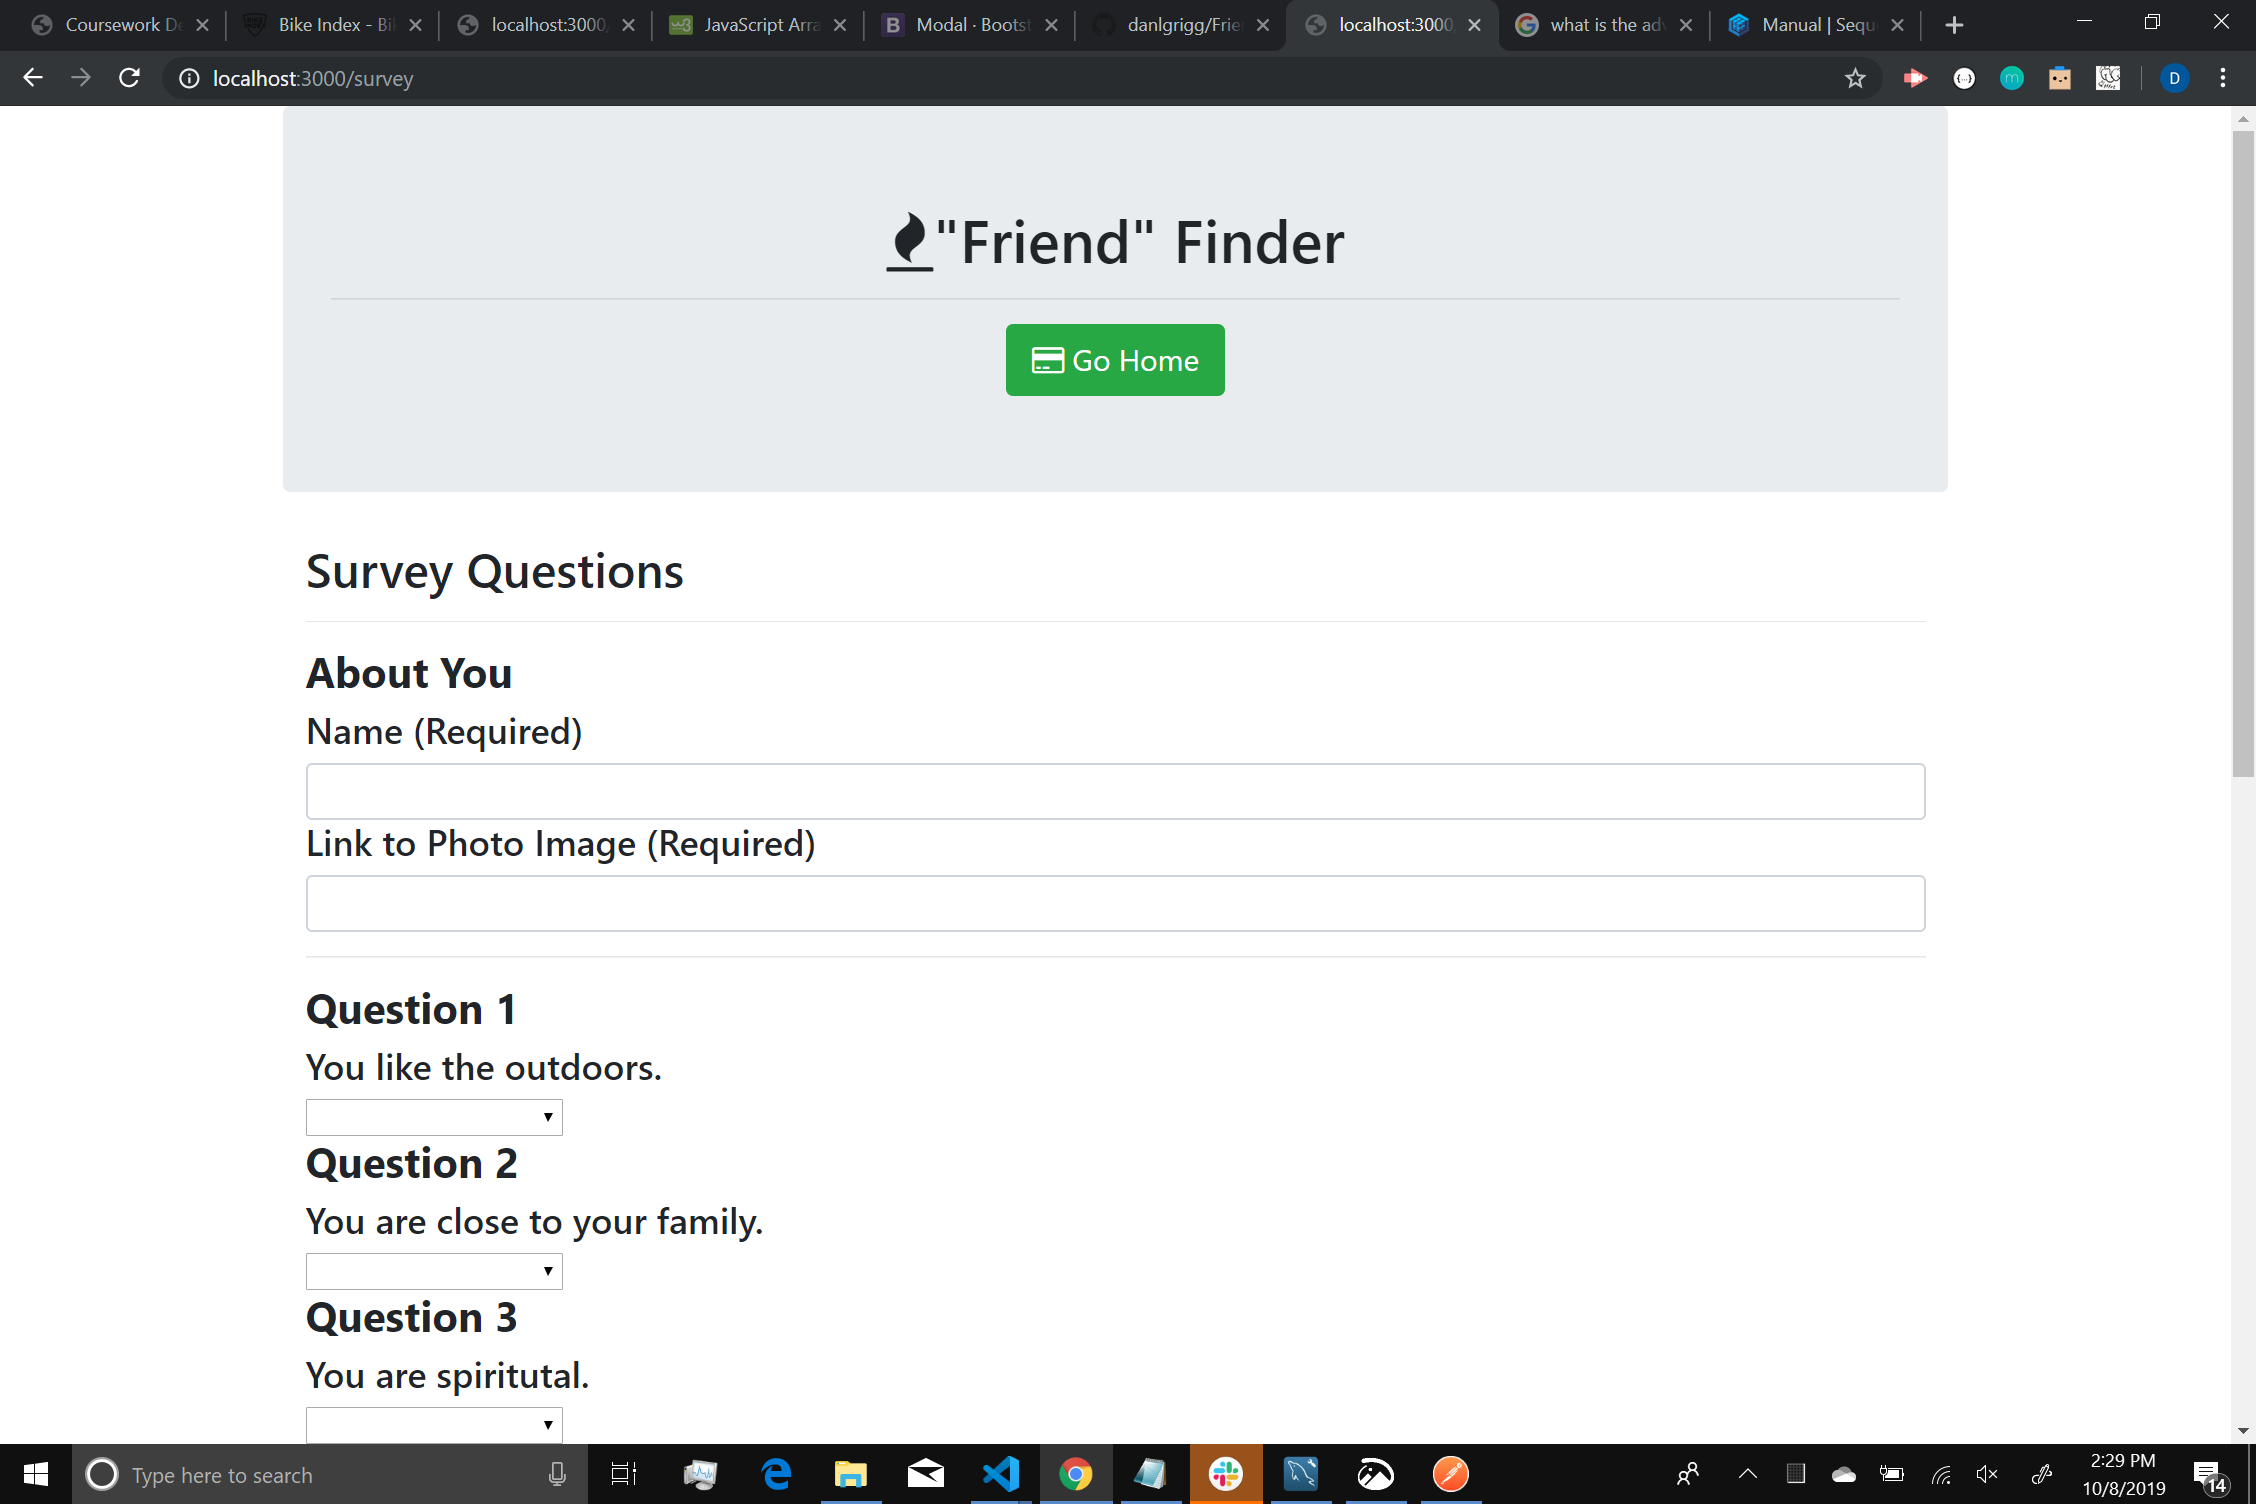
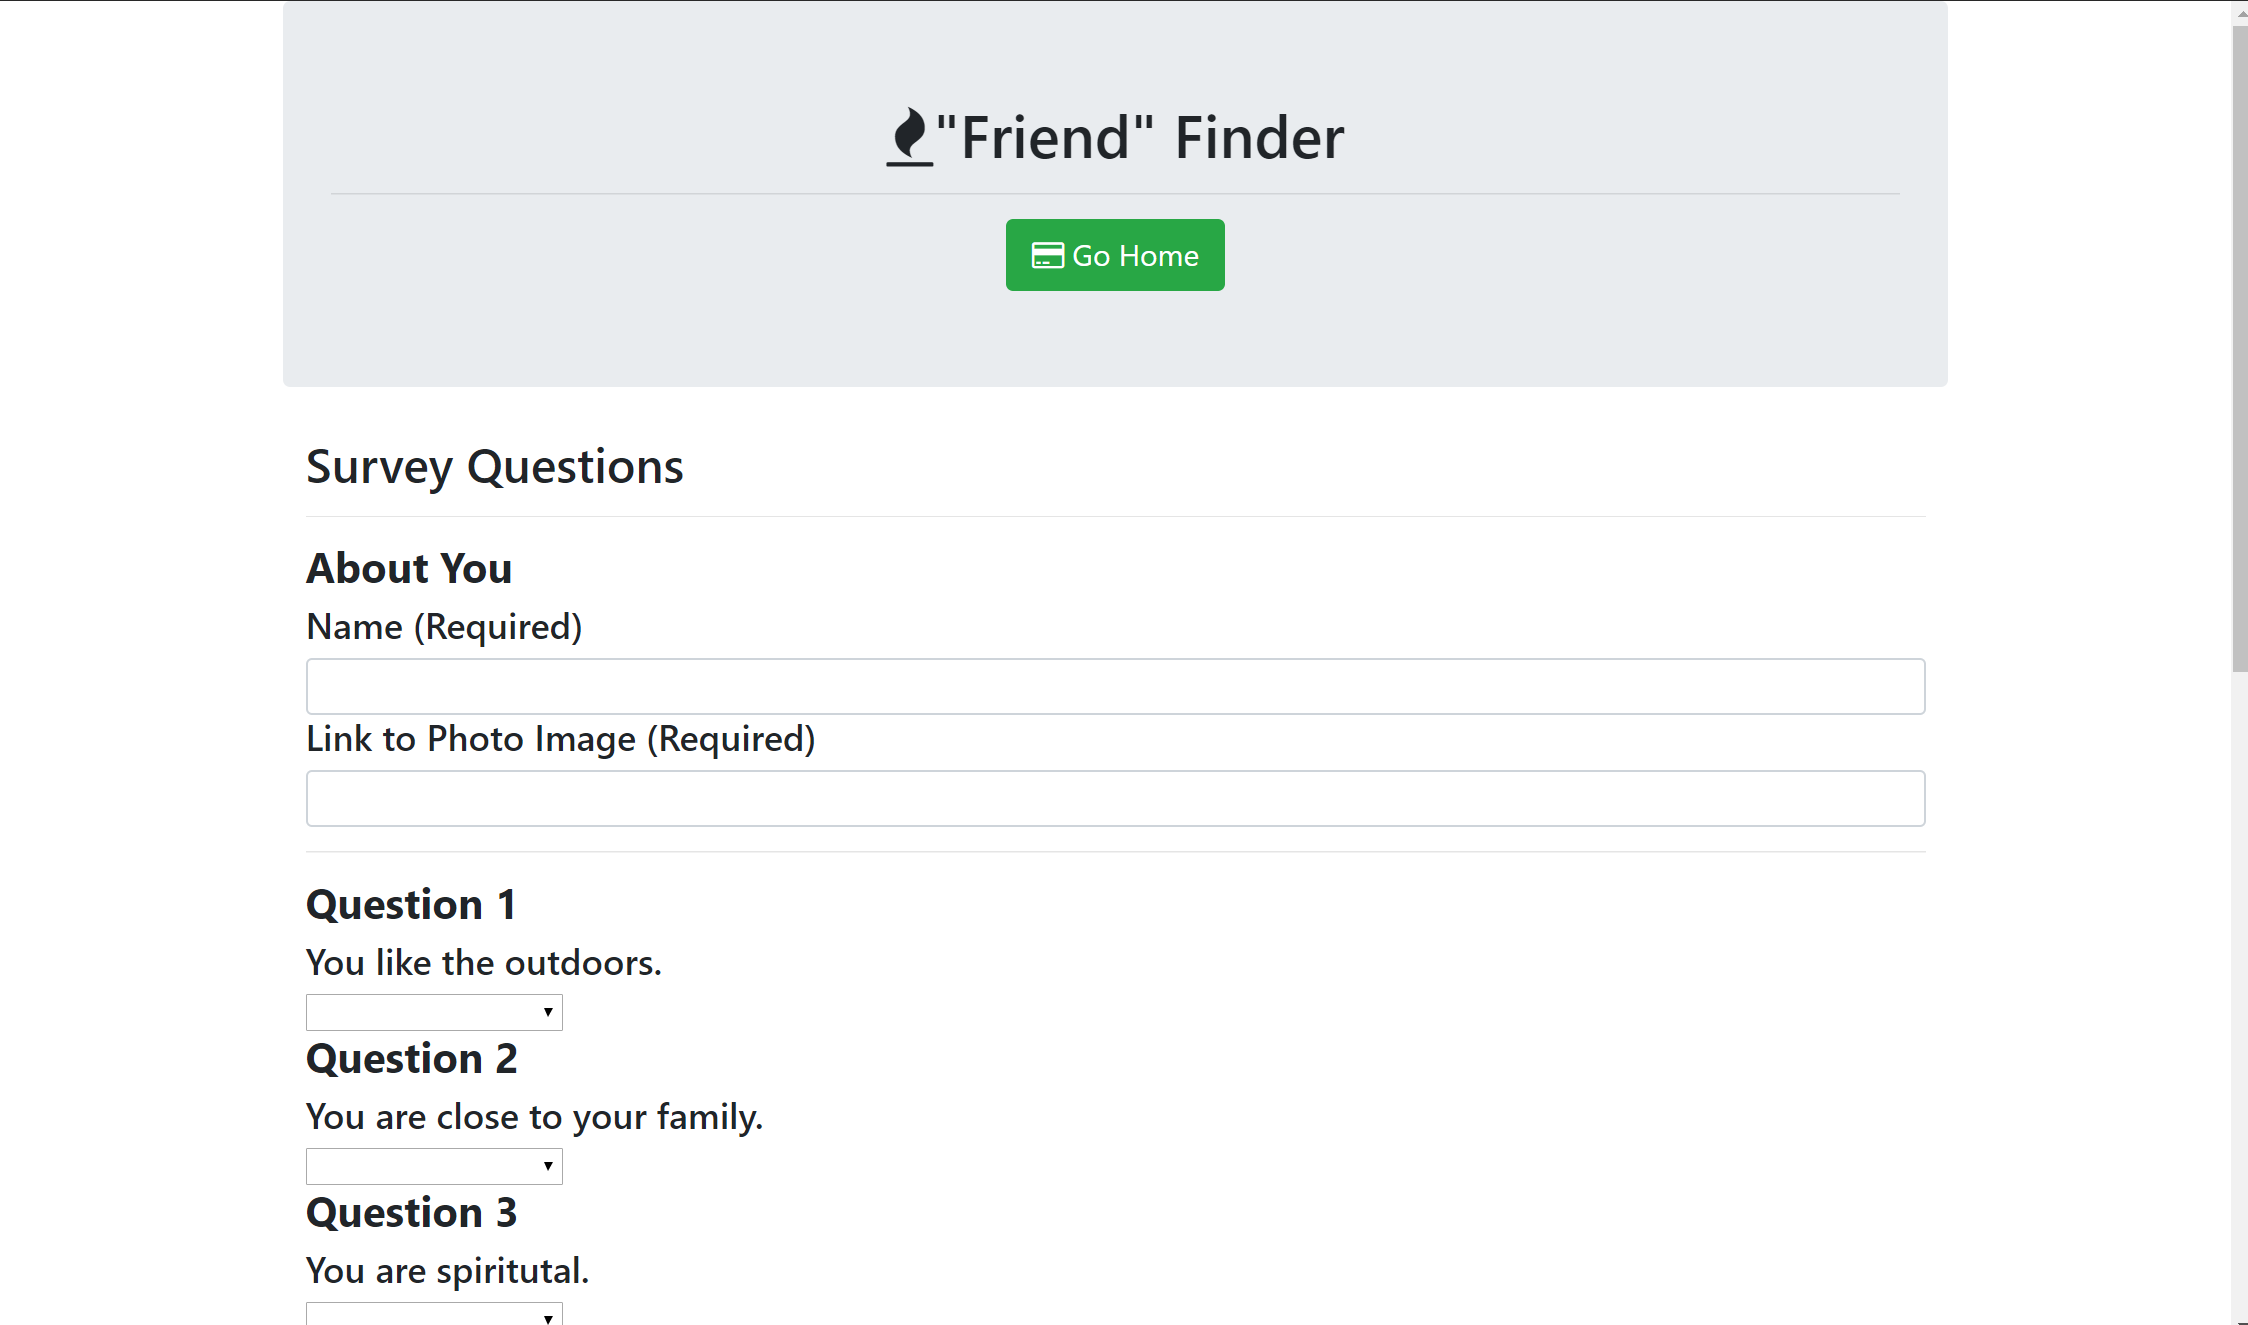
Updated portfolio.  Added new background, googlefont, coloring.

Changed region(s): [[0.0, 0.0, 1.0, 0.526], [0.0, 0.6498, 1.0, 1.0], [0.1246, 0.3404, 0.3737, 0.5879]]

diff --git a/portfolio.html b/portfolio.html
@@ -4,18 +4,20 @@
     <meta charset="UTF-8" />
     <meta name="viewport" content="width=device-width, initial-scale=1.0" />
     <meta http-equiv="X-UA-Compatible" content="ie=edge" />
-    <title>Document</title>
+    <title>Dan L. Grigg Portfolio</title>
+    <link href="https://fonts.googleapis.com/css?family=Ubuntu&display=swap" rel="stylesheet">
     <link
       rel="stylesheet"
       href="https://stackpath.bootstrapcdn.com/bootstrap/4.3.1/css/bootstrap.min.css"
       integrity="sha384-ggOyR0iXCbMQv3Xipma34MD+dH/1fQ784/j6cY/iJTQUOhcWr7x9JvoRxT2MZw1T"
-      crossorigin="anonymous"/>
-    <link rel="stylesheet" type="text/css" href="style.css"/>
+      crossorigin="anonymous"
+    />
+    <link rel="stylesheet" type="text/css" href="style.css" />
   </head>
 
   <body>
     <!--navbar-->
-    <nav class="navbar navbar-expand-lg navbar-light bg-light">
+    <nav class="navbar navbar-expand-md navbar-dark fixed-top bg-dark">
       <a class="navbar-brand text-white">Dan L. Grigg</a>
       <button
         class="navbar-toggler"
@@ -44,51 +46,103 @@
 
     <!--Gallery-->
     <div class="container width: 75%">
-    <div class="card-group">
-      <div class="card card-portfolio">
-        <img src="assets/images/gamechomp.png" class="card-img-top" alt="Gamechomp Screenshot">
-        <div class="card-body">
-          <a href="https://maxdavin.github.io/Project-One/">//GameChomp</a>        
-        </div>
-      </div>
-      <div class="card card-portfolio">
-        <img src="assets/images/stevenuniversegem.png" class="card-img-top" alt="Steven Universe Gem Collector Screenshot">
-        <div class="card-body">
-          <a href="https://danlgrigg.github.io/Steven-Universe-Gem-Collector/.">Steven Universe Gem Collector</a>
+      <h2>Portfolio</h2>
+      <div class="row">
+        <div class="card-group">
+          <div class="card card-portfolio">
+            <img
+              src="assets/images/gamechomp.png"
+              class="card-img-top"
+              alt="Gamechomp Screenshot"
+            />
+            <div class="card-body">
+              <a href="https://maxdavin.github.io/Project-One/">//GameChomp</a>
+            </div>
           </div>
-      </div>
-      <div class="card card-portfolio">
-        <img src="assets/images/star-wars-gif-party.png" class="card-img-top" alt="Star Wars GIF Party Screenshot">
-        <div class="card-body">
-          <a href="https://danlgrigg.github.io/Star-Wars-GIF-Party/">Star Wars GIF Party </a>
+          <div class="card card-portfolio">
+            <img
+              src="assets/images/little-library-scrnsht2.png"
+              class="card-img-top"
+              alt="Little Free Library Community App Screenshot"
+            />
+            <div class="card-body">
+              <a href="https://powerful-gorge-87557.herokuapp.com"
+                >The Little Free Library Community App</a
+              >
+            </div>
+          </div>
+          <div class="card card-portfolio">
+            <img
+              src="assets/images/stevenuniversegem.png"
+              class="card-img-top"
+              alt="Steven Universe Gem Collector Screenshot"
+            />
+            <div class="card-body">
+              <a
+                href="https://danlgrigg.github.io/Steven-Universe-Gem-Collector/."
+                >Steven Universe Gem Collector</a
+              >
+            </div>
+          </div>
         </div>
       </div>
-      <div class="card card-portfolio">
-        <img src="assets/images/liri-screenshot.png" class="card-img-top" alt="LIRI App Screenshot">
-        <div class="card-body">
-          <a href="https://github.com/danlgrigg/liri-node-app/">LIRI Node App </a>
+        <div class="row">
+            <div class="card-group">
+          <div class="card card-portfolio">
+            <img
+              src="assets/images/star-wars-gif-party.png"
+              class="card-img-top"
+              alt="Star Wars GIF Party Screenshot"
+            />
+            <div class="card-body">
+              <a href="https://danlgrigg.github.io/Star-Wars-GIF-Party/"
+                >Star Wars GIF Party
+              </a>
+            </div>
+          </div>
+          <div class="card card-portfolio">
+            <img
+              src="assets/images/liri-screenshot.png"
+              class="card-img-top"
+              alt="LIRI App Screenshot"
+            />
+            <div class="card-body">
+              <a href="https://github.com/danlgrigg/liri-node-app/"
+                >LIRI Node App
+              </a>
+            </div>
+          </div>
+          <div class="card card-portfolio">
+            <img src="assets/images/bamazon-screenshot.jpg.png" class="card-img-top" alt="Bamazon Screenshot" />
+            <div class="card-body">
+              <a href="https://github.com/danlgrigg/bamazon">Bamazon App</a>
+            </div>
+          </div>
         </div>
       </div>
-      <div class="card card-portfolio">
-        <img src="" class="card-img-top" alt="LIRI App Screenshot">
-        <div class="card-body">
-          <a href="https://github.com/danlgrigg/bamazon">Bamazon App</a>
-        </div>
-      <div class="card card-portfolio">
-        <img src="assets/images/FriendFinderScrnsht.png" class="card-img-top" alt="LIRI App Screenshot">
-        <div class="card-body">
-          <a href="https://git.heroku.com/enigmatic-meadow-13965.git">"Friend" Finder</a>
+        <div class="row">
+          <div class="col-4">
+          <div class="card-group">
+          <div class="card card-portfolio">
+            <img
+              src="assets/images/FriendFinderScrnsht.png"
+              class="card-img-top"
+              alt="LIRI App Screenshot"
+            />
+            <div class="card-body">
+              <a href="https://git.heroku.com/still-atoll-02656.git"
+                >"Friend" Finder</a
+              >
+            </div>
+          </div>
         </div>
       </div>
       </div>
-    </div>  
-
-      
-
-    <!-- <footer class="footer">Copyright &copy;</footer> -->
-    <div class="card footer">
-             <h6 class="card-title">Copyright &copy Dan L. Grigg;</h6>
-      <div>
+    </div>
+      <!-- <footer class="footer">Copyright &copy;</footer> -->
+      <div class="card footer">
+        <h6 class="card-title">Copyright &copy; Dan L. Grigg 2019</h6>
+      </div>
     </div>
   </body>
 </html>

diff --git a/contact.html b/contact.html
@@ -4,7 +4,8 @@
     <meta charset="UTF-8" />
     <meta name="viewport" content="width=device-width, initial-scale=1.0" />
     <meta http-equiv="X-UA-Compatible" content="ie=edge" />
-    <title>Document</title>
+    <title>Dan L. Grigg Contact</title>
+    <link href="https://fonts.googleapis.com/css?family=Ubuntu&display=swap" rel="stylesheet">
     <link
       rel="stylesheet"
       href="https://stackpath.bootstrapcdn.com/bootstrap/4.3.1/css/bootstrap.min.css"
@@ -14,7 +15,7 @@
   </head>
 
   <body>
-    <nav class="navbar navbar-expand-lg navbar-light bg-light">
+    <nav class="navbar navbar-expand-md navbar-dark fixed-top bg-dark">
       <a class="navbar-brand text-white">Dan L. Grigg</a>
       <button
         class="navbar-toggler"
@@ -35,31 +36,32 @@
           <a class="nav-item nav-link active" href="index.html"
             >About <span class="sr-only">(current)</span></a
           >
-          <a class="nav-item nav-link" href="portfolio.html">Portfolio</a>
-          <a class="nav-item nav-link" href="contact.html">Contact</a>
+          <a class="nav-item nav-link active" href="portfolio.html">Portfolio</a>
+          <a class="nav-item nav-link active" href="contact.html">Contact</a>
         </div>
       </div>
     </nav>
     <!--Contact Form-->
     <div class="container">
+      <h2>Contact</h2>
         <form>
                 <div class="form-group">
-                <label for="exampleFormControlInput1">Email address</label>
+                <label for="exampleFormControlInput1"></label>
                 <input type="email" class="form-control" id="exampleFormControlInput1" placeholder="name@example.com">
                 </div>
                 <div class="form-group">
-                <label for="exampleFormControlInput2">Name</label>
-                <input type="name" id="exampleFormControlInput2">
+                <label for="exampleFormControlInput2"></label>
+                <input type="name" id="exampleFormControlInput2" placeholder="Name">
                 </div>
                 <div class="form-group">
-                <label for="exampleFormControlTextarea1">Message</label>
-                <textarea class="form-control" id="exampleFormControlTextarea1" rows="3"></textarea>
+                <label for="exampleFormControlTextarea1"></label>
+                <textarea class="form-control" id="exampleFormControlTextarea1" rows="3" placeholder="Message"></textarea>
                 </div>
             </form>
     </div>
         <!-- <footer class="footer">Copyright &copy;</footer> -->
         <div class="card footer">
-                <h6 class="card-title">Copyright &copy;</h6>
+                <h6 class="card-title">Copyright &copy; Dan L. Grigg 2019</h6>
         <div>
         </div>
   </body>

diff --git a/style.css b/style.css
@@ -1,55 +1,54 @@
 
 body {
-  font-family: Arial, Helvetica, sans-serif;
-  background-image: url("assets/backgroundImages/papyrus.png");
+  font-family: 'Ubuntu', sans-serif;
+  background-image: url("assets/backgroundImages/wireframebkgrd.jpg");
+  background-attachment: fixed;
+  background-position: center;
+  background-repeat: no-repeat;
+  background-size: cover;
+  scroll-behavior: unset;
+  color: whitesmoke;
 }
 
 .navbar {
   border-bottom: .25rem solid #cccccc;
-  color: #44aaaa;
+  /* position: fixed; */
+ 
 }
 
 .navbar-brand {
-  /* width: 20%; */
   font-size: 2.5rem;
-  /* left: 5rem; */
-  background-color: #44aaaa;
-  /* border-bottom: .25rem solid #cccccc; */
+  background-image: linear-gradient(to right, red , yellow);
   padding: 1rem;
 }
 
 .nav-link {
   border-right: .25rem solid #bbbbbb;
-  color: #44aaaa;
+  color: grey;
   font-size: large;
 }
 
-.a {
-  color: #44aaaa;
-}
-
 .container { 
-  border: .25rem solid #cccccc;
+
   margin-top: 5%;
-  /* width: 100%; */
   justify-content: center;
-  background: whitesmoke;
 }
 
 h2 {
-    color: #44aaaa;
-    padding: .5rem;
-    /* border-bottom: .5rem; */
+  
+  color: whitesmoke;
+  padding: 1rem;
 }
 
-.card-portfolio {
+.card .card-portfolio {
   margin: 2rem;
-  background: whitesmoke;
+  text-align: center;
+  box-shadow: 0 4px 8px 0 rgba(0, 0, 0, 0.2), 0 6px 20px 0 rgba(0, 0, 0, 0.19);
 }
 
 a {
   text-align: center;
-  color: #44aaaa;
+  color: grey;
   font-size: 1.5rem;
 }
 
@@ -58,12 +57,12 @@ a {
 }
 
 .footer {
-  background-color: #666666;
+  background-image: linear-gradient(to right, red , yellow);
   color: whitesmoke;
   /* font-size: small; */
   width: 100%;
-  height: 12%;
-  border-top: .5rem solid #44aaaa;
+  height: 5%;
+  border-top: .5rem;
   text-align: center;
   padding: 1rem;
   position: fixed;

diff --git a/index.html b/index.html
@@ -4,7 +4,8 @@
     <meta charset="UTF-8" />
     <meta name="viewport" content="width=device-width, initial-scale=1.0" />
     <meta http-equiv="X-UA-Compatible" content="ie=edge" />
-    <title>Document</title>
+    <title>Dan L. Grigg About</title>
+    <link href="https://fonts.googleapis.com/css?family=Ubuntu&display=swap" rel="stylesheet">
     <link
       rel="stylesheet"
       href="https://stackpath.bootstrapcdn.com/bootstrap/4.3.1/css/bootstrap.min.css"
@@ -14,7 +15,7 @@
   </head>
 
   <body>
-    <nav class="navbar navbar-expand-lg navbar-light bg-light">
+    <nav class="navbar navbar-expand-md navbar-dark fixed-top bg-dark">
       <a class="navbar-brand text-white">Dan L. Grigg</a>
       <button
         class="navbar-toggler"
@@ -42,9 +43,9 @@
     </nav>
     <div class="container">
         <!-- <span class="border"> -->
+        <h2>About</h2>
         
       <div class="card mb-5" style="max-width: 960px;">
-        <h2>About Me</h2>
          
 
         <div class="row">
@@ -81,7 +82,7 @@
 
     <!-- <footer class="footer">Copyright &copy;</footer> -->
     <div class="card footer">
-             <h6 class="card-title">Copyright &copy;</h6>
+             <h6 class="card-title">Copyright &copy; Dan L. Grigg 2019</h6>
       <div>
     </div>
   </body>
